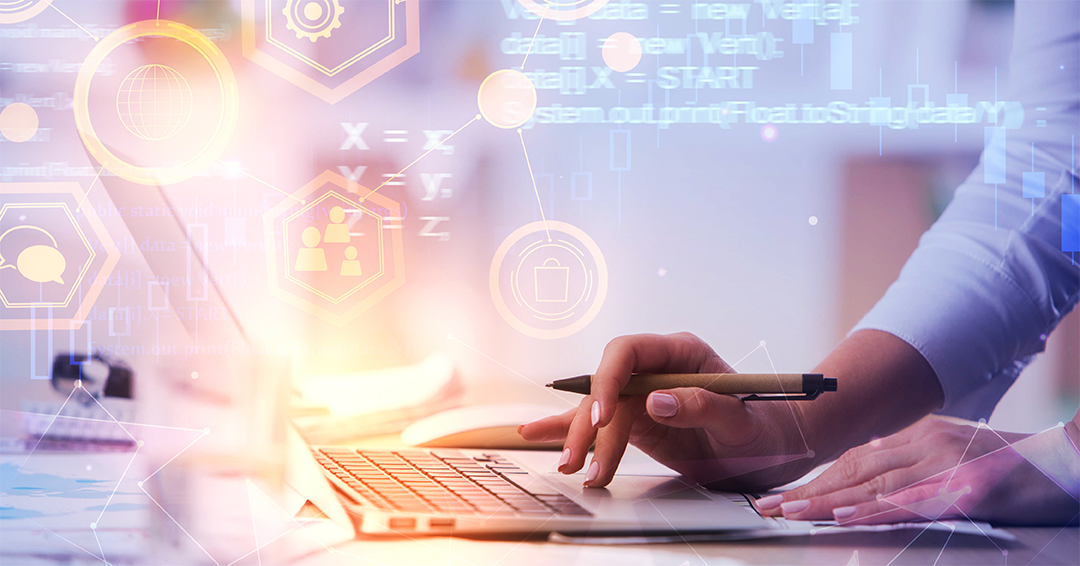
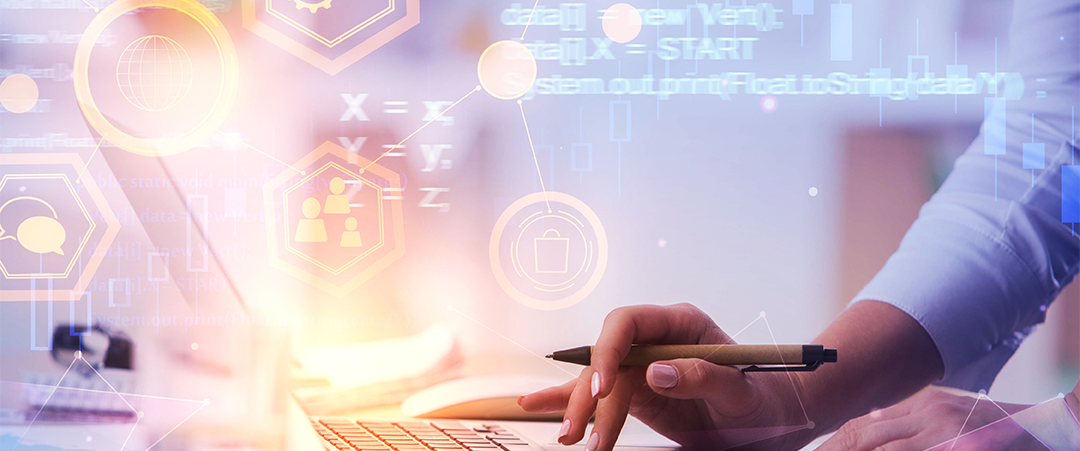
adjusted hero and header

diff --git a/css/styles.css b/css/styles.css
@@ -6,13 +6,12 @@ body {
 .logo-container {
   display: flex;
 
-  height: 120px;
+  height: 100px;
   width: 50%;
 }
 
 #Layer_1 {
   margin-left: 50px;
-  margin-top: 10px;
 }
 
 .nav-container {
@@ -60,6 +59,7 @@ h2 {
 .hero-banner {
   display: block;
   width: 100%;
+  height: 450px;
   margin-left: auto;
   margin-right: auto;
 }
